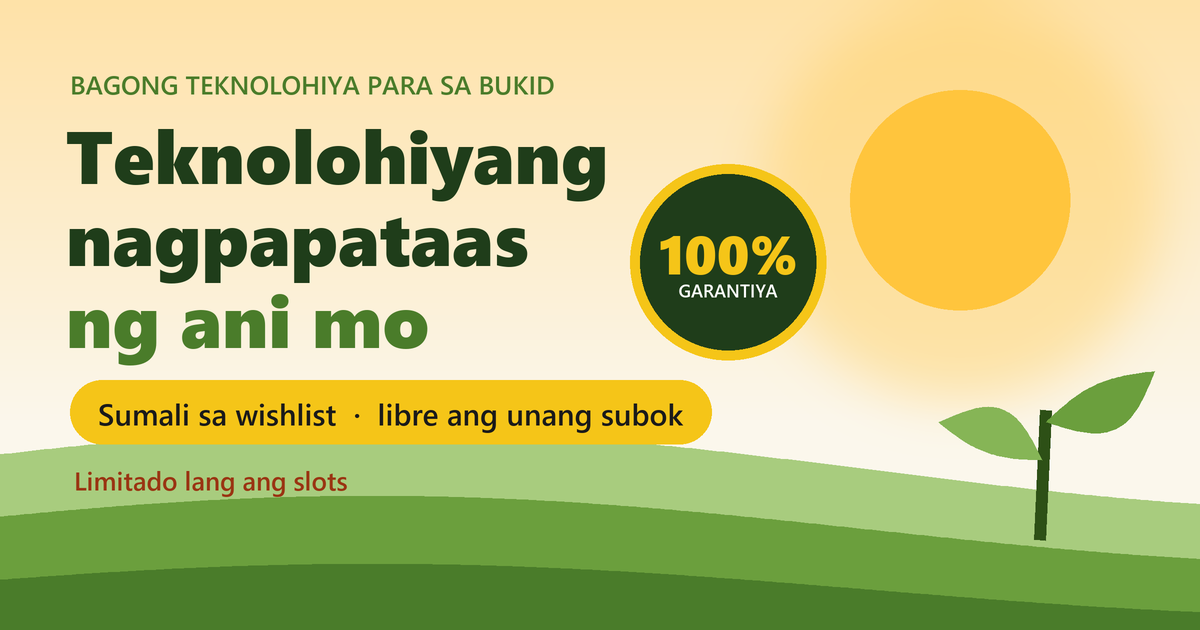
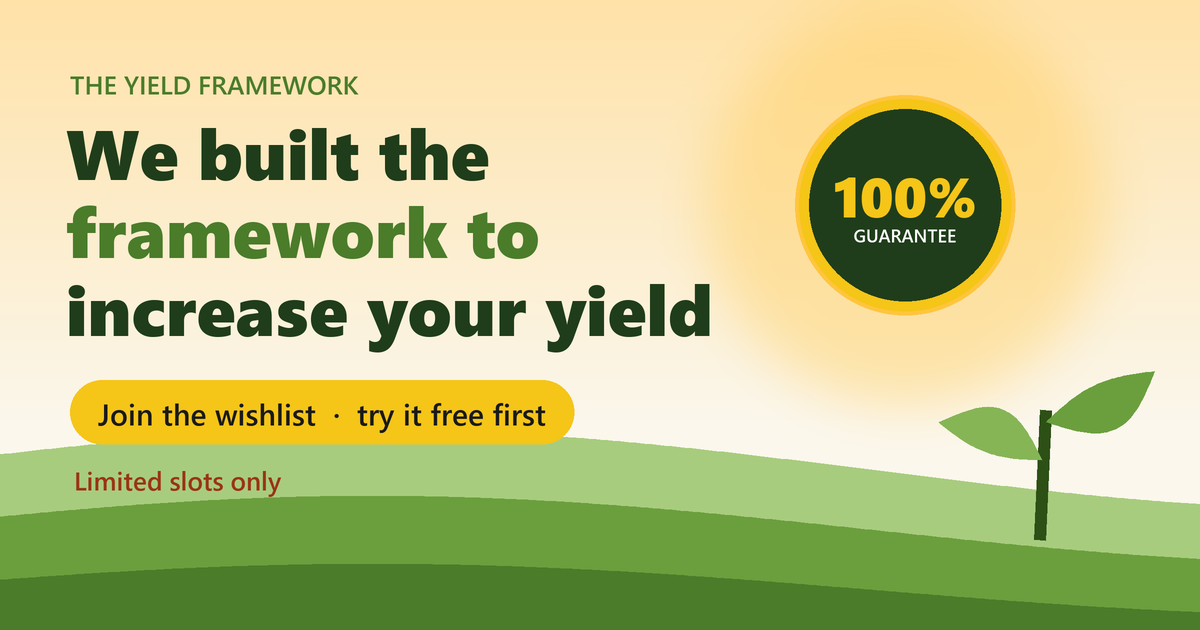
The wishlist in English only, built around one line: we built the framework to increase your yield, with a 100% guarantee; the framework drawn as five steps to a higher yield.

diff --git a/resources/views/wishlist/form.blade.php b/resources/views/wishlist/form.blade.php
@@ -5,20 +5,20 @@
      App\Support\Wishlist. The guarantee is said with what stands behind it: no harvest gained, nothing paid.
 
      A page of its own: no layout, no app bundle, no link anywhere, no name, not in search results. One question to a
-     screen, a big tap for every answer, Tagalog first with English one tap away, and the answers kept on the phone
+     screen, a big tap for every answer, in English (the owner took the Tagalog out the same day), and the answers kept on the phone
      as they are given, so a dropped signal or a closed tab loses nothing. Nothing turns the page but the Next button.
      At the end: their place in line, a card to post, a link that moves them up, and three things to do this week. --}}
-<html lang="tl">
+<html lang="en">
 <head>
     <meta charset="utf-8">
     <meta name="viewport" content="width=device-width, initial-scale=1, viewport-fit=cover">
     <meta name="robots" content="noindex, nofollow">
     <meta name="csrf-token" content="{{ csrf_token() }}">
-    <title>Teknolohiyang nagpapataas ng ani | Sumali sa wishlist</title>
-    <meta name="description" content="May teknolohiya kaming nagpapataas ng ani, may 100% garantiya. Sumali sa wishlist at mauna kang makasubok nang libre. Limitado ang slots.">
+    <title>We built the framework to increase your yield | Join the wishlist</title>
+    <meta name="description" content="100% guarantee to increase your yield. Join the wishlist and be first to try it free. Limited slots only.">
     <meta property="og:type" content="website">
-    <meta property="og:title" content="May teknolohiya kaming nagpapataas ng ani mo, may 100% garantiya">
-    <meta property="og:description" content="Sumali sa wishlist at mauna kang makasubok nang libre. Limitado lang ang slots.">
+    <meta property="og:title" content="We built the framework to increase your yield">
+    <meta property="og:description" content="100% guarantee to increase your yield. Join the wishlist and be first to try it free. Limited slots only.">
     <meta property="og:image" content="{{ url('/images/wishlist/share.png') }}">
     <meta property="og:image:width" content="1200">
     <meta property="og:image:height" content="630">
@@ -41,16 +41,15 @@
         button, input, select, textarea { font: inherit; color: inherit; }
         .wrap { max-width: 34rem; margin: 0 auto; min-height: 100svh; display: flex; flex-direction: column; padding: 0 1rem calc(6.5rem + env(safe-area-inset-bottom)); }
 
-        /* The bar along the top: back, how far, and the language. */
+        /* The bar along the top: back, and how far. */
         .top { position: sticky; top: 0; z-index: 5; display: flex; align-items: center; gap: .6rem; padding: .75rem 0 .6rem; background: linear-gradient(var(--cream) 75%, rgb(251 247 236 / 0)); }
+        /* Nothing to go back to on the first screen and the last: no bar, the picture starts at the top. */
+        .top.is-bare { display: none; }
         .back { width: 2.4rem; height: 2.4rem; border-radius: 999px; border: 0; background: transparent; display: grid; place-items: center; cursor: pointer; transition: opacity .28s var(--ease), background .2s; }
         .back:active { background: var(--mist); }
         .back[hidden] { display: grid; visibility: hidden; opacity: 0; }
         .bar { flex: 1; height: .5rem; border-radius: 999px; background: var(--line); overflow: hidden; transition: opacity .28s var(--ease); }
         .bar i { display: block; height: 100%; width: 0; border-radius: 999px; background: linear-gradient(90deg, var(--leaf), var(--sprout)); transition: width .45s var(--ease); }
-        .lang { display: inline-flex; padding: .2rem; border-radius: 999px; background: var(--card); border: 1px solid var(--line); }
-        .lang button { border: 0; background: transparent; padding: .35rem .65rem; border-radius: 999px; font-size: .78rem; font-weight: 800; color: var(--soft); cursor: pointer; transition: background .28s var(--ease), color .28s var(--ease); }
-        .lang button.is-on { background: var(--green); color: #fff; }
 
         /* The screens. One shows at a time; the next slides in from the side it comes from. */
         .stage { position: relative; flex: 1; }
@@ -128,10 +127,26 @@
         @keyframes grow { from { transform: scaleY(0); } }
         .sway { animation: sway 5s ease-in-out infinite; transform-origin: 50% 100%; transform-box: fill-box; }
         @keyframes sway { 50% { transform: rotate(3deg); } }
-        h1 { font-size: 2.35rem; font-weight: 700; margin-top: 1.1rem; }
+        h1 { font-size: 2.15rem; font-weight: 700; margin-top: .9rem; }
         h1 em { font-style: normal; color: var(--leaf); }
         .lead { font-size: 1.05rem; line-height: 1.55; color: #36402e; margin: .7rem 0 0; }
-        .gets { list-style: none; margin: 1.1rem 0 0; padding: 0; display: grid; gap: .5rem; }
+        /* THE FRAMEWORK: five steps on one line that draws itself downward, ending at the harvest. */
+        .fw-h { font-family: 'Display', 'Body', sans-serif; font-size: 1.15rem; margin: 1.7rem 0 0; }
+        .fw { list-style: none; margin: .7rem 0 0; padding: 0; position: relative; }
+        .fw::before { content: ''; position: absolute; left: 1.15rem; top: 1.3rem; bottom: 1.6rem; width: 2px; border-radius: 2px;
+            background: linear-gradient(var(--sprout), var(--gold)); transform-origin: top; animation: draw 1.5s var(--ease) .35s both; }
+        @keyframes draw { from { transform: scaleY(0); } }
+        .fw li { position: relative; display: flex; gap: .85rem; align-items: flex-start; padding: .5rem 0; animation: stepIn .5s var(--ease) both; animation-delay: calc(var(--i) * .13s + .25s); }
+        .fw-n { flex: none; position: relative; z-index: 1; width: 2.3rem; height: 2.3rem; border-radius: 999px; background: var(--card); border: 2px solid var(--sprout);
+            display: grid; place-items: center; font-size: 1.1rem; }
+        .fw-n.is-gold { background: var(--gold); border-color: var(--gold); font-size: 1.15rem; font-weight: 800; color: #1a1a1a; box-shadow: 0 0 0 5px rgb(245 197 24 / .25); }
+        .fw b { display: block; font-weight: 800; line-height: 1.3; padding-top: .15rem; }
+        .fw small { display: block; color: var(--soft); font-size: .88rem; line-height: 1.45; margin-top: .1rem; }
+        .fw .fw-end b { color: var(--green); font-size: 1.08rem; }
+        .stalk { transform-origin: 50% 100%; transform-box: fill-box; animation: grow 1.2s var(--ease) both; }
+        .rise { stroke-dasharray: 300; stroke-dashoffset: 300; animation: rise-line 1.6s var(--ease) 1.2s forwards; }
+        @keyframes rise-line { to { stroke-dashoffset: 0; } }
+        .gets { list-style: none; margin: .8rem 0 0; padding: 0; display: grid; gap: .5rem; }
         .gets li { display: flex; gap: .6rem; align-items: flex-start; font-weight: 700; line-height: 1.4; animation: stepIn .5s var(--ease) both; }
         .gets li:nth-child(2) { animation-delay: .08s; } .gets li:nth-child(3) { animation-delay: .16s; }
         .gets b { flex: none; width: 1.5rem; height: 1.5rem; border-radius: 999px; background: var(--leaf); color: #fff; display: grid; place-items: center; font-size: .8rem; }
@@ -190,10 +205,6 @@
             <svg width="22" height="22" viewBox="0 0 24 24" fill="none" stroke="currentColor" stroke-width="2.4" stroke-linecap="round" stroke-linejoin="round"><path d="M15 19l-7-7 7-7"/></svg>
         </button>
         <div class="bar" id="bar" aria-hidden="true"><i></i></div>
-        <div class="lang" role="group" aria-label="Language">
-            <button type="button" data-lang="tl" class="is-on">Tagalog</button>
-            <button type="button" data-lang="en">English</button>
-        </div>
     </div>
     <main class="stage" id="stage" aria-live="polite"></main>
 </div>
@@ -219,44 +230,20 @@
     const tick = '<svg viewBox="0 0 24 24" fill="none" stroke="#fff" stroke-width="3.5" stroke-linecap="round" stroke-linejoin="round"><path d="M5 12.5l4.5 4.5L19 7.5"/></svg>';
     const arrow = '<svg viewBox="0 0 24 24" fill="none" stroke="currentColor" stroke-width="2.6" stroke-linecap="round" stroke-linejoin="round"><path d="M5 12h14M13 6l6 6-6 6"/></svg>';
 
-    /* Everything said on the page, in both languages. */
+    /* Everything said on the page. */
     const T = {
-        tl: {
-            kicker: 'Bagong teknolohiya para sa bukid', title: 'Teknolohiyang <em>nagpapataas ng ani</em> mo',
-            lead: 'Tamang abono, tamang spray at tamang oras para sa mismong lote mo, kaya tumataas ang ani. Sumali sa wishlist at mauna kang makasubok nang libre.',
-            guard: '100% garantiya sa ani mo', guardSub: 'Kapag hindi tumaas ang ani mo, wala kang babayaran kahit piso.', seal: '100%', sealSub: 'GARANTIYA',
-            slots: 'Limitado lang ang slots', start: 'Sumali sa wishlist', minutes: 'Dalawang minuto lang', resume: 'May naiwan kang sagot.', resumeGo: 'Ituloy', restart: 'Magsimula muli',
-            next: 'Susunod', skip: 'Laktawan', send: 'Ipadala ang hiling ko', sending: 'Ipinapadala…', back: 'Bumalik',
-            name: 'Una sa lahat, ano ang pangalan mo?', first: 'Pangalan', last: 'Apelyido', optional: 'kung gusto mo',
-            role: 'Alin ang pinakamalapit sa iyo?',
-            place: 'Saan ang bukid mo?', province: 'Probinsya', town: 'Bayan o lungsod', pick: 'Piliin', placeHint: 'Para malaman namin ang panahon at lupa sa lugar mo.',
-            crops: 'Ano ang tanim mo?', cropsHint: 'Piliin lahat ng tanim mo.', seasons: 'Ilang beses kayo nagtatanim sa isang taon?',
-            size: 'Gaano kalaki ang sakahan mo?', lots: 'Ilang lote o pitak?', helpers: 'Sino ang katulong mo sa bukid?',
-            pains: 'Ano ang pinakamabigat sa pagsasaka mo ngayon?', painsHint: 'Pumili ng hanggang tatlo.',
-            wishKicker: 'Ang hiling mo', wishes: 'Kung may katulong ka sa bukid na laging nasa telepono mo, ano ang gusto mong gawin niya?', wishesHint: 'Pumili ng kahit ilan.',
-            wishText: 'May iba ka pang hiling?', wishTextHint: 'Isulat dito, kahit Ilocano, Bisaya o anumang wika.', wishPh: 'Halimbawa: Sana masabihan ako kapag may bagyong darating bago ako mag-abono.',
-            yield: 'Ilan ang ani mo noong huling season?', yieldHint: 'Kung hindi mo matandaan, ayos lang. Pwede mong laktawan ito.', yieldNum: 'Ani',
-            phone: 'Anong telepono ang gamit mo?', signal: 'Paano ang signal sa bukid?',
-            payKicker: 'Wala kang babayaran ngayon', pay: 'Kung makakatulong ito na tumaas ang ani mo, paano mo gustong magbayad?', payAmount: 'Magkano ang patas para sa isang buong season?',
-            payNote: 'Tanong lang ito para malaman namin ang patas para sa magsasaka. Wala kang babayaran sa pagsagot.',
-            heard: 'Saan mo nalaman ito?',
-            contact: 'Paano ka namin makakausap?', contactHint: 'Dito ka namin sasabihan kapag handa na ang slot mo.', mobile: 'Mobile number', email: 'Email', emailOpt: 'kung meron',
-            via: 'Saan ka mas madaling makausap?', time: 'Anong oras ang pinakamaganda?',
-            consent: 'Pumapayag akong gamitin ang mga sagot ko para sa wishlist at para makausap ako tungkol dito. Hindi ito ibebenta o ibibigay kaninuman.',
-            needPhone: 'Pakilagay ang mobile number mo (09XX XXX XXXX) o email.', needConsent: 'Pakitsek ang pahintulot sa itaas.', offline: 'Walang signal ngayon. Naitabi namin ang sagot mo, subukan ulit kapag may signal.',
-            thanks: (n) => `Salamat, ${n}!`, inLine: 'ang puwesto mo sa wishlist',
-            again: 'Natanggap na namin ito dati. Na-update ang mga sagot mo, at nasa dati ka pa ring puwesto.',
-            cardTitle: 'Ang card mo', download: 'I-download', share: 'Ibahagi',
-            climb: 'Umakyat sa listahan', climbSay: `Bawat kaibigang magsasaka na sasagot gamit ang link mo, aakyat ka ng ${3} puwesto.`, friends: (n) => n ? `${n} kaibigan na ang sumali gamit ang link mo.` : '',
-            copy: 'Kopyahin', copied: 'Nakopya ang link', shareText: 'Sumali ako sa wishlist ng bagong teknolohiya na nagpapataas ng ani, may 100% garantiya at libre ang unang subok. Sumali ka na rin, limitado lang ang slots:',
-            tipsTitle: 'Habang naghihintay', tipsSay: 'Tatlong bagay na pwede mong gawin ngayong linggo, para sa sinabi mong pinakamabigat:',
-            nextTitle: 'Ano ang susunod?', nextSay: (v) => `Kokontakin ka namin${v ? ' sa ' + v : ''} sa loob ng isang linggo para sa susunod na hakbang.`, edit: 'Baguhin ang sagot ko',
-            cardKicker: 'WISHLIST', cardBottom: 'Kasama sa mauunang susubok', cardWish: 'Ang hiling ko:',
-        },
         en: {
-            kicker: 'New technology for the farm', title: 'Technology that <em>raises your harvest</em>',
-            lead: 'The right fertilizer, the right spray and the right timing for your own lot, so your harvest goes up. Join the wishlist and be first to try it free.',
-            guard: '100% guarantee on your harvest', guardSub: 'If your harvest does not go up, you pay nothing, not a single peso.', seal: '100%', sealSub: 'GUARANTEE',
+            kicker: 'The Yield Framework', title: 'We built the <em>framework</em> to increase your yield.',
+            guard: '100% guarantee to increase your yield.', guardSub: 'If your yield does not go up, you pay nothing. Not a single peso.', seal: '100%', sealSub: 'GUARANTEE',
+            fwTitle: 'How the framework works', getTitle: 'When you join',
+            fw: [
+                ['🧪', 'Your soil and water first', 'We read your own lot before anything else.'],
+                ['🌱', 'The right seed', 'Matched to your land, your water and the season.'],
+                ['📅', 'The right day', 'Planting, fertilizer and spraying, each on its day.'],
+                ['⚖', 'The right amount', 'Enough for the crop, and nothing wasted.'],
+                ['👀', 'Watched every week', 'Trouble caught early, before it costs you.'],
+            ],
+            fwEnd: 'A higher yield', fwEndSub: '100% guaranteed, or you pay nothing.',
             slots: 'Limited slots only', start: 'Join the wishlist', minutes: 'Just two minutes', resume: 'You left some answers.', resumeGo: 'Continue', restart: 'Start again',
             next: 'Next', skip: 'Skip', send: 'Send my wish', sending: 'Sending…', back: 'Back',
             name: 'First of all, what is your name?', first: 'First name', last: 'Last name', optional: 'if you like',
@@ -280,10 +267,10 @@
             again: 'We had your answers already. They are updated, and you keep your place.',
             cardTitle: 'Your card', download: 'Download', share: 'Share',
             climb: 'Move up the list', climbSay: `For every farmer friend who answers through your link, you move up ${3} places.`, friends: (n) => n ? `${n} friend${n === 1 ? '' : 's'} joined through your link.` : '',
-            copy: 'Copy', copied: 'Link copied', shareText: 'I joined the wishlist for a new technology that raises the harvest, with a 100% guarantee and a free first try. Join too, slots are limited:',
+            copy: 'Copy', copied: 'Link copied', shareText: 'They built a framework to increase our yield, with a 100% guarantee. I joined the wishlist to try it free. Join too, slots are limited:',
             tipsTitle: 'While you wait', tipsSay: 'Three things you can do this week, for what you said is hardest:',
             nextTitle: 'What happens next?', nextSay: (v) => `We will contact you${v ? ' on ' + v : ''} within a week for the next step.`, edit: 'Change my answers',
-            cardKicker: 'WISHLIST', cardBottom: 'Among the first to try', cardWish: 'My wish:',
+            cardKicker: 'THE YIELD FRAMEWORK', cardBottom: 'Among the first to try', cardWish: 'My wish:',
         },
     };
 
@@ -308,7 +295,8 @@
 
     const DONE = STEPS.length - 1;
     const read = () => { try { return JSON.parse(localStorage.getItem(KEY) || 'null') || {}; } catch (_) { return {}; } };
-    const S = Object.assign({ lang: 'tl', at: 0, a: { crops: [], pains: [], wishes: [] }, done: null }, read());
+    const S = Object.assign({ at: 0, a: { crops: [], pains: [], wishes: [] }, done: null }, read());
+    S.lang = 'en';   // English only (the owner, 2026-11-26)
     // Back on the page with answers half given: the first screen offers to carry on from there.
     let resumeAt = 0;
     if (S.done) S.at = DONE; else { resumeAt = S.at > 0 && S.at < DONE ? S.at : 0; S.at = 0; }
@@ -342,22 +330,29 @@
                     <g stroke="#3d6823" stroke-width="2" opacity=".55" fill="none">
                         <path d="M20 205 Q 80 186 140 200"/><path d="M160 208 Q 230 188 300 202"/><path d="M300 205 Q 350 192 400 198"/>
                     </g>
-                    <g class="sprout"><g class="sway">
-                        <path d="M118 188 C118 170 118 158 120 146" stroke="#2d5016" stroke-width="4" stroke-linecap="round" fill="none"/>
-                        <path d="M120 160 C 104 156 96 144 98 132 C 112 134 120 144 120 160Z" fill="#86b556"/>
-                        <path d="M121 150 C 136 146 146 134 144 120 C 128 124 120 136 121 150Z" fill="#6b9f3d"/>
-                    </g></g>
+                    ${[[60, 40], [120, 58], [180, 76], [240, 94], [300, 112]].map(([x, h], i) => `
+                    <g class="stalk" style="animation-delay:${.25 + i * .16}s"><g class="sway" style="animation-delay:${i * .4}s">
+                        <path d="M${x} 196 C ${x} ${196 - h * .5} ${x + 1} ${196 - h * .8} ${x + 3} ${196 - h}" stroke="#2d5016" stroke-width="3.5" stroke-linecap="round" fill="none"/>
+                        <path d="M${x} ${196 - h * .45} C ${x - 16} ${196 - h * .5} ${x - 22} ${196 - h * .7} ${x - 20} ${196 - h * .82} C ${x - 8} ${196 - h * .74} ${x - 1} ${196 - h * .62} ${x} ${196 - h * .45}Z" fill="#86b556"/>
+                        <path d="M${x + 1} ${196 - h * .62} C ${x + 16} ${196 - h * .66} ${x + 22} ${196 - h * .84} ${x + 20} ${196 - h * .96} C ${x + 8} ${196 - h * .88} ${x + 2} ${196 - h * .78} ${x + 1} ${196 - h * .62}Z" fill="#6b9f3d"/>
+                        <ellipse cx="${x + 4}" cy="${196 - h - 7}" rx="${4 + i}" ry="${8 + i * 1.6}" fill="#e6b800"/>
+                    </g></g>`).join('')}
+                    <path class="rise" d="M48 148 C 120 128 200 104 312 66" stroke="#2d5016" stroke-width="2.5" stroke-dasharray="6 6" fill="none" opacity=".7"/>
+                    <path class="rise" d="M302 62 L314 65 L307 76" stroke="#2d5016" stroke-width="2.5" stroke-linecap="round" stroke-linejoin="round" fill="none" opacity=".7"/>
                 </svg>
             </div>
             <p class="kicker">${t('kicker')}</p>
             <h1>${t('title')}</h1>
-            <p class="lead">${t('lead')}</p>
-            <ul class="gets">${(OFFER[S.lang] || []).map((x) => `<li><b>✓</b><span>${esc(x)}</span></li>`).join('')}</ul>
             <div class="guard">
                 <span class="seal">${t('seal')}<small>${t('sealSub')}</small></span>
                 <p>${t('guard')}<small>${t('guardSub')}</small></p>
             </div>
             <span class="slots"><i aria-hidden="true"></i>${t('slots')}</span>
+            <h3 class="fw-h">${t('fwTitle')}</h3>
+            <ol class="fw">${t('fw').map(([pic, b, sm], i) => `<li style="--i:${i}"><span class="fw-n" aria-hidden="true">${pic}</span><div><b>${esc(b)}</b><small>${esc(sm)}</small></div></li>`).join('')}
+                <li class="fw-end" style="--i:5"><span class="fw-n is-gold" aria-hidden="true">↑</span><div><b>${t('fwEnd')}</b><small>${t('fwEndSub')}</small></div></li></ol>
+            <h3 class="fw-h">${t('getTitle')}</h3>
+            <ul class="gets">${(OFFER.en || []).map((x) => `<li><b>✓</b><span>${esc(x)}</span></li>`).join('')}</ul>
             <div class="resume" id="resume" ${resumeAt ? '' : 'hidden'}><span>${t('resume')}</span><button type="button" data-restart>${t('restart')}</button></div>`,
         name: () => `
             <h2>${t('name')}</h2>
@@ -431,11 +426,10 @@
     function paint() {
         const step = STEPS[S.at];
         stage.innerHTML = `<section class="step is-on ${dir === 'back' ? 'from-back' : ''}" data-step="${step.id}">${SCREENS[step.id]()}</section>`;
-        document.documentElement.lang = S.lang === 'en' ? 'en' : 'tl';
-        document.querySelectorAll('[data-lang]').forEach((b) => b.classList.toggle('is-on', b.dataset.lang === S.lang));
         $('#bar i').style.width = (step.id === 'intro' ? 0 : Math.min(100, Math.round((Math.min(S.at, QN) / QN) * 100))) + '%';
         $('#bar').style.opacity = step.id === 'intro' || step.id === 'done' ? '0' : '1';
         back.hidden = step.id === 'intro' || step.id === 'done';
+        $('.top').classList.toggle('is-bare', step.id === 'intro' || step.id === 'done');
         back.setAttribute('aria-label', t('back'));
         foot.classList.toggle('is-gone', step.id === 'done');
         skip.hidden = !step.skippable;
@@ -498,7 +492,6 @@
     });
     skip.addEventListener('click', () => { S.at = Math.min(S.at + 1, STEPS.length - 2); dir = 'fwd'; keep(); paint(); });
     back.addEventListener('click', () => { S.at = Math.max(0, S.at - 1); dir = 'back'; keep(); paint(); });
-    document.querySelectorAll('[data-lang]').forEach((b) => b.addEventListener('click', () => { if (S.lang === b.dataset.lang) return; S.lang = b.dataset.lang; keep(); dir = 'fwd'; paint(); }));
 
     /* Provinces and towns, from the site's own list. */
     let PLACES = null;

diff --git a/app/Http/Controllers/WishlistController.php b/app/Http/Controllers/WishlistController.php
@@ -35,13 +35,13 @@ class WishlistController extends Controller
             'firstName' => 'required|string|max:60',
             'consent' => 'accepted',
         ], [
-            'firstName.required' => 'Pakisulat ang pangalan mo. (Please write your name.)',
-            'consent.accepted' => 'Pakitsek ang pahintulot sa dulo. (Please tick the consent box.)',
+            'firstName.required' => 'Please write your name.',
+            'consent.accepted' => 'Please tick the consent box.',
         ]);
         $phone = Wishlist::phone($request->input('phone'));
         $email = filter_var(trim((string) $request->input('email')), FILTER_VALIDATE_EMAIL);
         if (! $phone && ! $email) {
-            return response()->json(['success' => false, 'message' => 'Pakilagay ang mobile number mo (09XX XXX XXXX) o email. (Please give your mobile number or email.)',
+            return response()->json(['success' => false, 'message' => 'Please give your mobile number (09XX XXX XXXX) or an email.',
                 'errors' => ['phone' => ['A mobile number or an email is needed.']]], 422);
         }
 
